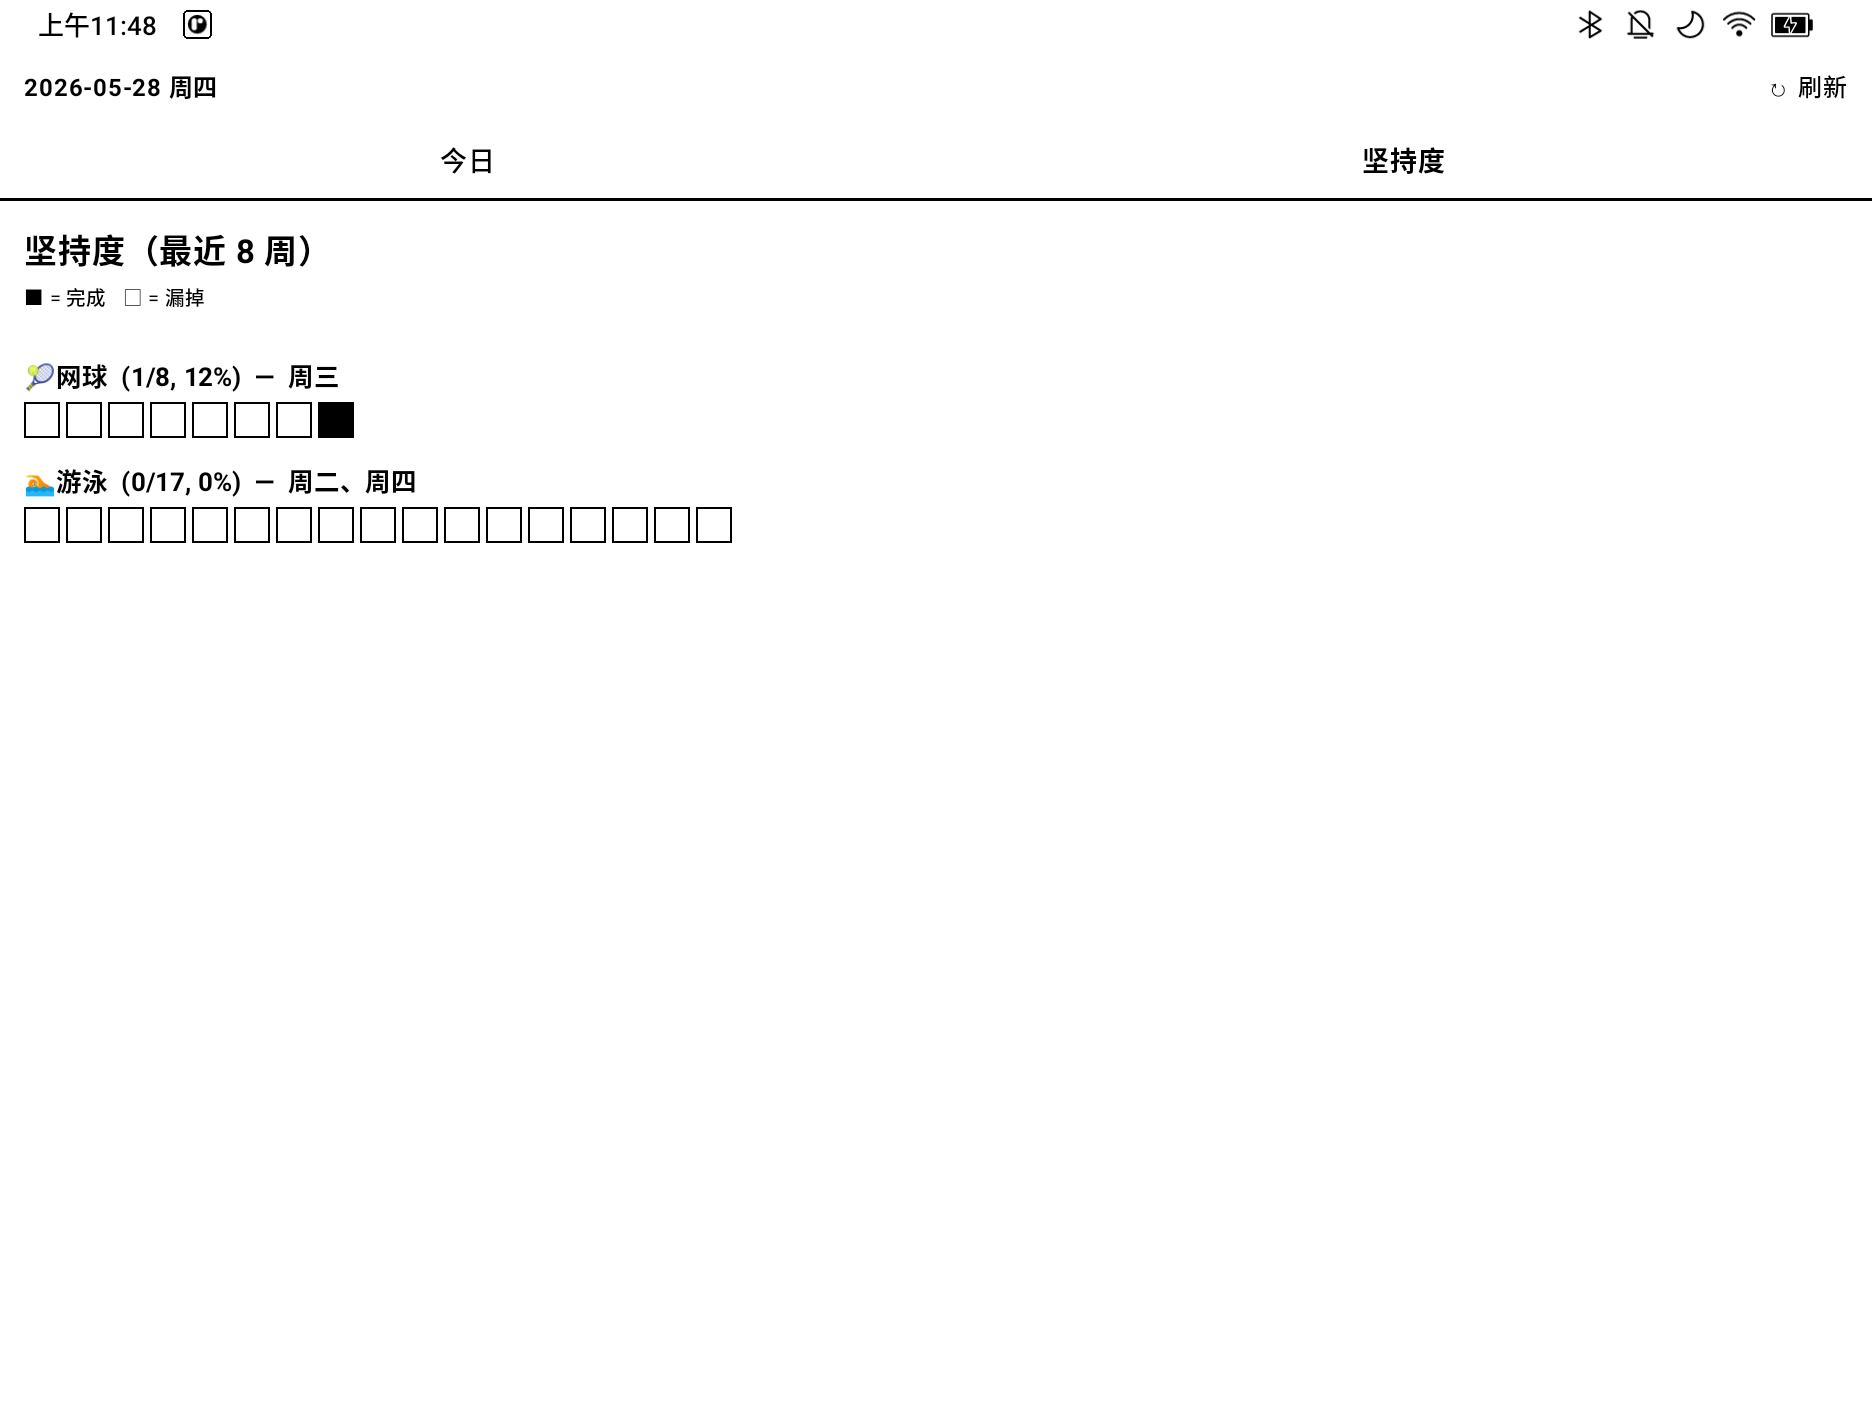
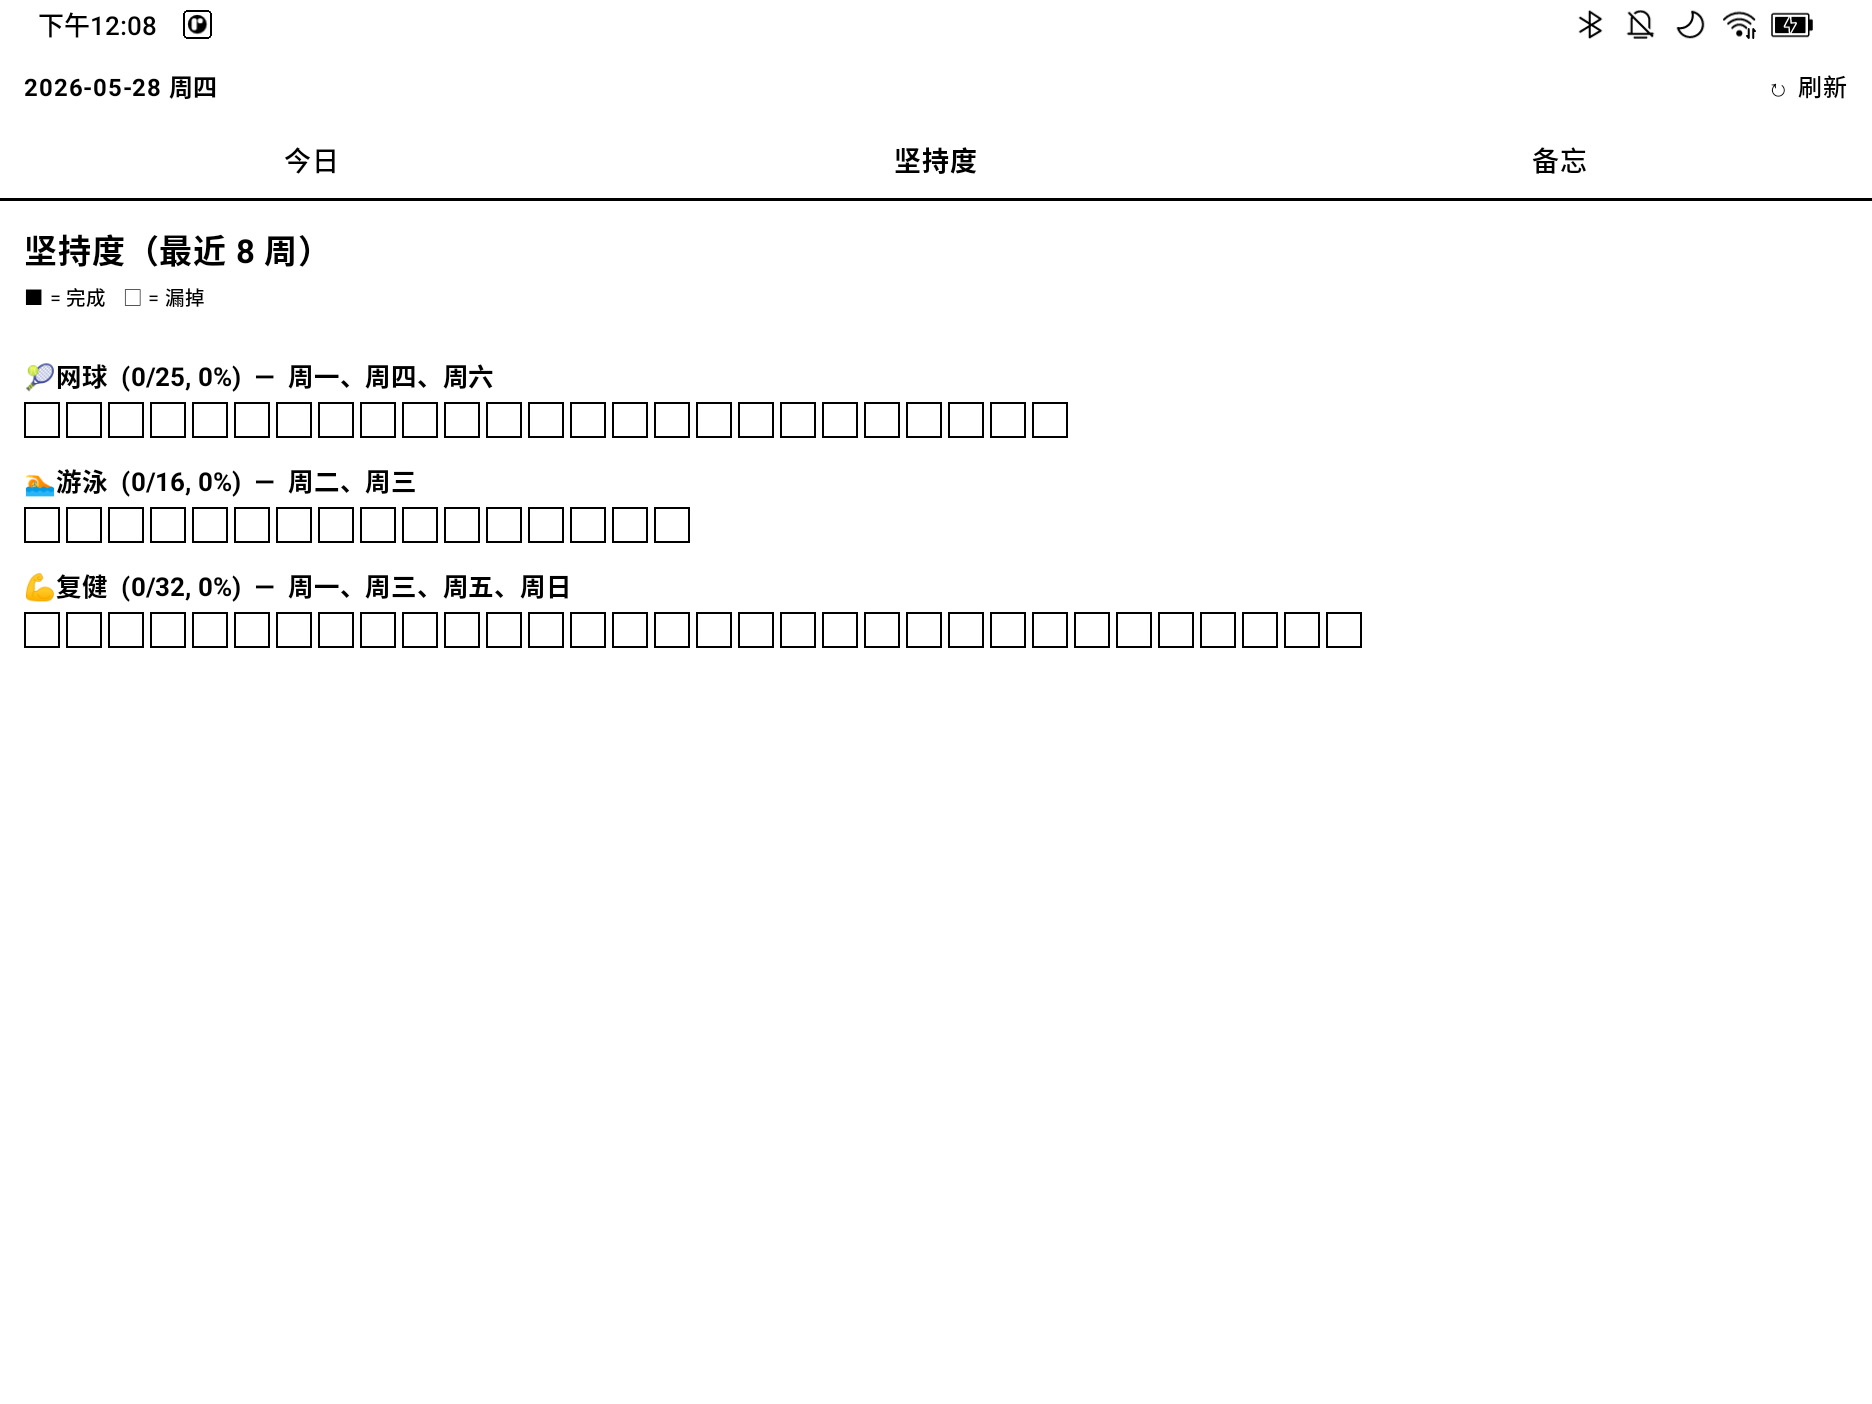
Add memos, completed-task view, and routine reschedule support
- schema: add `memo` boolean column to tasks (idempotent migration)
- memos: --memo flag on `task add`; memos are hidden from 今日 and shown
  on a new 备忘 tab in the app
- completed tasks: Today screen + `today` CLI now show a 已完成 section
  grouped into 今天/昨天 with the check-off time (from completed_at);
  app fetches tasks completed in the last 3 days
- routines: new `routine days <ref> <weekdays>` command to reschedule
  an existing routine without recreating it

diff --git a/android/app/src/main/java/com/boox/dailytodo/ui/Screens.kt b/android/app/src/main/java/com/boox/dailytodo/ui/Screens.kt
@@ -27,12 +27,22 @@ import androidx.compose.ui.unit.dp
 import androidx.compose.ui.unit.sp
 import com.boox.dailytodo.MainViewModel
 import com.boox.dailytodo.Routine
+import com.boox.dailytodo.Task
 import java.time.LocalDate
+import java.time.OffsetDateTime
+import java.time.ZoneId
+import java.time.format.DateTimeFormatter
 
 private val WEEKDAY_CN = mapOf(1 to "周一", 2 to "周二", 3 to "周三", 4 to "周四", 5 to "周五", 6 to "周六", 7 to "周日")
 
 fun weekdaysLabel(days: List<Int>): String =
     days.sorted().joinToString("、") { WEEKDAY_CN[it] ?: "?" }
+
+private val HHMM: DateTimeFormatter = DateTimeFormatter.ofPattern("HH:mm")
+
+/** Parse a Postgres timestamptz (e.g. 2026-05-28T18:32:00+00:00) into the device's local zone. */
+private fun completedZdt(iso: String?) =
+    iso?.let { runCatching { OffsetDateTime.parse(it).atZoneSameInstant(ZoneId.systemDefault()) }.getOrNull() }
 
 @Composable
 fun TodayScreen(vm: MainViewModel) {
@@ -45,13 +55,14 @@ fun TodayScreen(vm: MainViewModel) {
             .verticalScroll(rememberScrollState())
             .padding(16.dp)
     ) {
+        val pending = vm.tasks.filter { !it.done && !it.memo }
         Text("待办", fontSize = 22.sp, fontWeight = FontWeight.Bold)
         Spacer(Modifier.height(8.dp))
-        if (vm.tasks.isEmpty()) {
+        if (pending.isEmpty()) {
             Text("今天没有待办 🎉", fontSize = 16.sp)
         } else {
             val order = listOf("工作", "运动", "生活")
-            val grouped = vm.tasks.groupBy { it.category ?: "其他" }
+            val grouped = pending.groupBy { it.category ?: "其他" }
             val cats = order.filter { grouped.containsKey(it) } +
                 grouped.keys.filter { it !in order }
             cats.forEach { cat ->
@@ -107,6 +118,80 @@ fun TodayScreen(vm: MainViewModel) {
                     Text(if (done) "✔" else "☐", fontSize = 26.sp)
                     Spacer(Modifier.width(12.dp))
                     Text("${r.icon ?: ""}${r.name}", fontSize = 18.sp)
+                }
+                HorizontalDivider(color = Color.Black, thickness = 1.dp)
+            }
+        }
+
+        // ── 已完成 (今天 / 昨天)，时间按勾选完成的时刻 ──
+        val yesterday = today.minusDays(1)
+        val doneItems = vm.tasks
+            .filter { it.done }
+            .mapNotNull { t -> completedZdt(t.completedAt)?.let { it to t } }
+        if (doneItems.any { (zdt, _) -> zdt.toLocalDate() == today || zdt.toLocalDate() == yesterday }) {
+            Spacer(Modifier.height(28.dp))
+            Text("已完成", fontSize = 22.sp, fontWeight = FontWeight.Bold)
+            Spacer(Modifier.height(8.dp))
+            listOf("今天" to today, "昨天" to yesterday).forEach { (label, date) ->
+                val items = doneItems
+                    .filter { (zdt, _) -> zdt.toLocalDate() == date }
+                    .sortedByDescending { (zdt, _) -> zdt }
+                if (items.isNotEmpty()) {
+                    Text(
+                        label,
+                        fontSize = 15.sp,
+                        fontWeight = FontWeight.Bold,
+                        modifier = Modifier.padding(top = 12.dp, bottom = 2.dp)
+                    )
+                    items.forEach { (zdt, t) ->
+                        Row(
+                            Modifier
+                                .fillMaxWidth()
+                                .noRippleClickable { vm.toggleTask(t) }
+                                .padding(vertical = 12.dp),
+                            verticalAlignment = Alignment.CenterVertically
+                        ) {
+                            Text("☑", fontSize = 26.sp)
+                            Spacer(Modifier.width(12.dp))
+                            Text(t.title, fontSize = 18.sp, modifier = Modifier.weight(1f))
+                            Text(zdt.format(HHMM), fontSize = 14.sp)
+                        }
+                        HorizontalDivider(color = Color.Black, thickness = 1.dp)
+                    }
+                }
+            }
+        }
+    }
+}
+
+@Composable
+fun MemoScreen(vm: MainViewModel) {
+    val memos = vm.tasks.filter { it.memo && !it.done }
+    Column(
+        Modifier
+            .fillMaxSize()
+            .verticalScroll(rememberScrollState())
+            .padding(16.dp)
+    ) {
+        Text("备忘录", fontSize = 22.sp, fontWeight = FontWeight.Bold)
+        Spacer(Modifier.height(8.dp))
+        if (memos.isEmpty()) {
+            Text("还没有备忘 📝", fontSize = 16.sp)
+        } else {
+            memos.forEach { t ->
+                Row(
+                    Modifier
+                        .fillMaxWidth()
+                        .noRippleClickable { vm.toggleTask(t) }
+                        .padding(vertical = 12.dp),
+                    verticalAlignment = Alignment.CenterVertically
+                ) {
+                    Text("☐", fontSize = 26.sp)
+                    Spacer(Modifier.width(12.dp))
+                    Column {
+                        Text(t.title, fontSize = 18.sp)
+                        t.category?.let { Text(it, fontSize = 13.sp) }
+                    }
                 }
                 HorizontalDivider(color = Color.Black, thickness = 1.dp)
             }

diff --git a/android/app/src/main/java/com/boox/dailytodo/Repository.kt b/android/app/src/main/java/com/boox/dailytodo/Repository.kt
@@ -44,7 +44,11 @@ class Repository {
     }
 
     suspend fun getTasks(): List<Task> = withContext(Dispatchers.IO) {
-        val url = base + "tasks?select=*&done=is.false&order=due_date.asc.nullslast,created_at.asc"
+        // Pending tasks (done=false, incl. memos) OR anything completed in the last 3 days,
+        // so the 已完成 section can show today's / yesterday's checked-off items.
+        val cutoff = Instant.now().minusSeconds(3 * 24 * 3600)
+        val url = base + "tasks?select=*&or=(done.is.false,completed_at.gte.$cutoff)" +
+            "&order=due_date.asc.nullslast,created_at.asc"
         json.decodeFromString(exec(request(url, "GET")))
     }
 

diff --git a/android/app/src/main/java/com/boox/dailytodo/MainActivity.kt b/android/app/src/main/java/com/boox/dailytodo/MainActivity.kt
@@ -27,6 +27,7 @@ import androidx.compose.ui.text.font.FontWeight
 import androidx.compose.ui.unit.dp
 import androidx.compose.ui.unit.sp
 import com.boox.dailytodo.ui.DailyTodoTheme
+import com.boox.dailytodo.ui.MemoScreen
 import com.boox.dailytodo.ui.StatsScreen
 import com.boox.dailytodo.ui.TodayScreen
 import com.boox.dailytodo.ui.noRippleClickable
@@ -81,6 +82,7 @@ fun AppRoot(vm: MainViewModel) {
         Row(Modifier.fillMaxWidth()) {
             TabButton("今日", tab == 0, Modifier.weight(1f)) { tab = 0 }
             TabButton("坚持度", tab == 1, Modifier.weight(1f)) { tab = 1 }
+            TabButton("备忘", tab == 2, Modifier.weight(1f)) { tab = 2 }
         }
         HorizontalDivider(color = Color.Black, thickness = 2.dp)
 
@@ -92,6 +94,7 @@ fun AppRoot(vm: MainViewModel) {
             when (tab) {
                 0 -> TodayScreen(vm)
                 1 -> StatsScreen(vm)
+                2 -> MemoScreen(vm)
             }
         }
     }

diff --git a/android/app/src/main/java/com/boox/dailytodo/Models.kt b/android/app/src/main/java/com/boox/dailytodo/Models.kt
@@ -9,8 +9,10 @@ data class Task(
     val title: String,
     val notes: String? = null,
     val done: Boolean = false,
+    val memo: Boolean = false,       // true = 备忘录, 不进今日待办
     @SerialName("due_date") val dueDate: String? = null,
     @SerialName("created_at") val createdAt: String? = null,
+    @SerialName("completed_at") val completedAt: String? = null,
     val category: String? = null,   // 工作 | 运动 | 生活
 )
 

diff --git a/scripts/todo.py b/scripts/todo.py
@@ -116,6 +116,16 @@ def short(id_):
     return id_[:8]
 
 
+def local_dt(iso):
+    """Parse a Postgres timestamptz into local time (or None)."""
+    if not iso:
+        return None
+    try:
+        return datetime.datetime.fromisoformat(iso.replace("Z", "+00:00")).astimezone()
+    except ValueError:
+        return None
+
+
 # ---------- categories ----------
 CATEGORIES = ["工作", "运动", "生活"]
 CATEGORY_ALIASES = {
@@ -176,10 +186,13 @@ def cmd_task_add(a):
     cat = norm_category(a.category)
     if cat:
         body["category"] = cat
+    if getattr(a, "memo", False):
+        body["memo"] = True
     r = rest("POST", "tasks", body=body)[0]
     due = f" (due {r['due_date']})" if r.get("due_date") else ""
     tag = f"[{r['category']}] " if r.get("category") else ""
-    print(f"✅ Added: {tag}{r['title']}{due}  [{short(r['id'])}]")
+    kind = "📝 Memo added" if r.get("memo") else "✅ Added"
+    print(f"{kind}: {tag}{r['title']}{due}  [{short(r['id'])}]")
 
 
 def cmd_task_list(a):
@@ -271,6 +284,14 @@ def cmd_routine_rm(a):
     print(f"🗑 Routine removed: {r['name']}")
 
 
+def cmd_routine_days(a):
+    r = resolve_routine(a.ref)
+    days = parse_days(a.days)
+    rest("PATCH", "routines", params={"id": f"eq.{r['id']}"}, body={"weekdays": days})
+    dd = "、".join(WEEKDAY_CN[d] for d in days)
+    print(f"📅 {r.get('icon') or ''}{r['name']} → {dd}")
+
+
 def cmd_routine_log(a):
     r = resolve_routine(a.ref)
     date = parse_due(a.date) if a.date else datetime.date.today().isoformat()
@@ -317,11 +338,18 @@ def cmd_routine_stats(a):
 
 def cmd_today(a):
     today = datetime.date.today()
+    yesterday = today - datetime.timedelta(days=1)
     iso = today.isoweekday()
-    print(f"📅 {today.isoformat()} {WEEKDAY_CN[iso]}")
+    todayiso = today.isoformat()
+    print(f"📅 {todayiso} {WEEKDAY_CN[iso]}")
+
+    all_tasks = fetch_tasks(include_done=True)
+
+    # 今日待办: 未完成、非备忘、无截止或已到期
     print("── 今日待办 ──")
-    tasks = fetch_tasks(include_done=False)
-    todays = [t for t in tasks if not t.get("due_date") or t["due_date"] <= today.isoformat()]
+    todays = [t for t in all_tasks
+              if not t["done"] and not t.get("memo")
+              and (not t.get("due_date") or t["due_date"] <= todayiso)]
     if not todays:
         print("  (无)")
     for cat, items in group_by_category(todays):
@@ -329,16 +357,40 @@ def cmd_today(a):
         for t in items:
             due = f" ⏰{t['due_date']}" if t.get("due_date") else ""
             print(f"    ☐ [{short(t['id'])}] {t['title']}{due}")
+
+    # 今日 routine
     print("── 今日 routine ──")
     routines = [r for r in fetch_routines(active_only=True) if iso in r["weekdays"]]
     if not routines:
         print("  (今天无)")
-        return
-    logs = rest("GET", "routine_logs", {"select": "*", "date": f"eq.{today.isoformat()}"})
-    done_ids = {l["routine_id"] for l in logs if l["done"]}
-    for r in routines:
-        mark = "✔" if r["id"] in done_ids else "☐"
-        print(f"  {mark} {r.get('icon') or ''}{r['name']}")
+    else:
+        logs = rest("GET", "routine_logs", {"select": "*", "date": f"eq.{todayiso}"})
+        done_ids = {l["routine_id"] for l in logs if l["done"]}
+        for r in routines:
+            mark = "✔" if r["id"] in done_ids else "☐"
+            print(f"  {mark} {r.get('icon') or ''}{r['name']}")
+
+    # 已完成 (今天 / 昨天)，时间按勾选完成的时刻
+    done_recent = []
+    for t in all_tasks:
+        dt = local_dt(t.get("completed_at")) if t["done"] else None
+        if dt and dt.date() in (today, yesterday):
+            done_recent.append((dt, t))
+    if done_recent:
+        print("── 已完成 ──")
+        for label, d in (("今天", today), ("昨天", yesterday)):
+            items = sorted((x for x in done_recent if x[0].date() == d), key=lambda x: x[0], reverse=True)
+            if items:
+                print(f"  {label}")
+                for dt, t in items:
+                    print(f"    ☑ {dt.strftime('%H:%M')} {t['title']}")
+
+    # 备忘录
+    memos = [t for t in all_tasks if t.get("memo") and not t["done"]]
+    if memos:
+        print("── 备忘录 ──")
+        for t in memos:
+            print(f"  ☐ [{short(t['id'])}] {t['title']}")
 
 
 def main():
@@ -349,7 +401,7 @@ def main():
 
     pt = sub.add_parser("task")
     ts = pt.add_subparsers(dest="sub")
-    a = ts.add_parser("add"); a.add_argument("title"); a.add_argument("--due"); a.add_argument("--notes"); a.add_argument("--category", "-c"); a.set_defaults(func=cmd_task_add)
+    a = ts.add_parser("add"); a.add_argument("title"); a.add_argument("--due"); a.add_argument("--notes"); a.add_argument("--category", "-c"); a.add_argument("--memo", action="store_true"); a.set_defaults(func=cmd_task_add)
     a = ts.add_parser("list"); a.add_argument("--all", action="store_true"); a.set_defaults(func=cmd_task_list)
     a = ts.add_parser("cat"); a.add_argument("ref"); a.add_argument("category"); a.set_defaults(func=cmd_task_cat)
     a = ts.add_parser("done"); a.add_argument("ref"); a.set_defaults(func=cmd_task_done)
@@ -360,6 +412,7 @@ def main():
     a = rs.add_parser("add"); a.add_argument("name"); a.add_argument("--days", required=True); a.add_argument("--icon"); a.add_argument("--category", "-c"); a.set_defaults(func=cmd_routine_add)
     a = rs.add_parser("list"); a.add_argument("--all", action="store_true"); a.set_defaults(func=cmd_routine_list)
     a = rs.add_parser("rm"); a.add_argument("ref"); a.set_defaults(func=cmd_routine_rm)
+    a = rs.add_parser("days"); a.add_argument("ref"); a.add_argument("days"); a.set_defaults(func=cmd_routine_days)
     a = rs.add_parser("log"); a.add_argument("ref"); a.add_argument("--date"); a.add_argument("--undo", action="store_true"); a.set_defaults(func=cmd_routine_log)
     a = rs.add_parser("stats"); a.add_argument("--weeks", type=int, default=8); a.set_defaults(func=cmd_routine_stats)
 